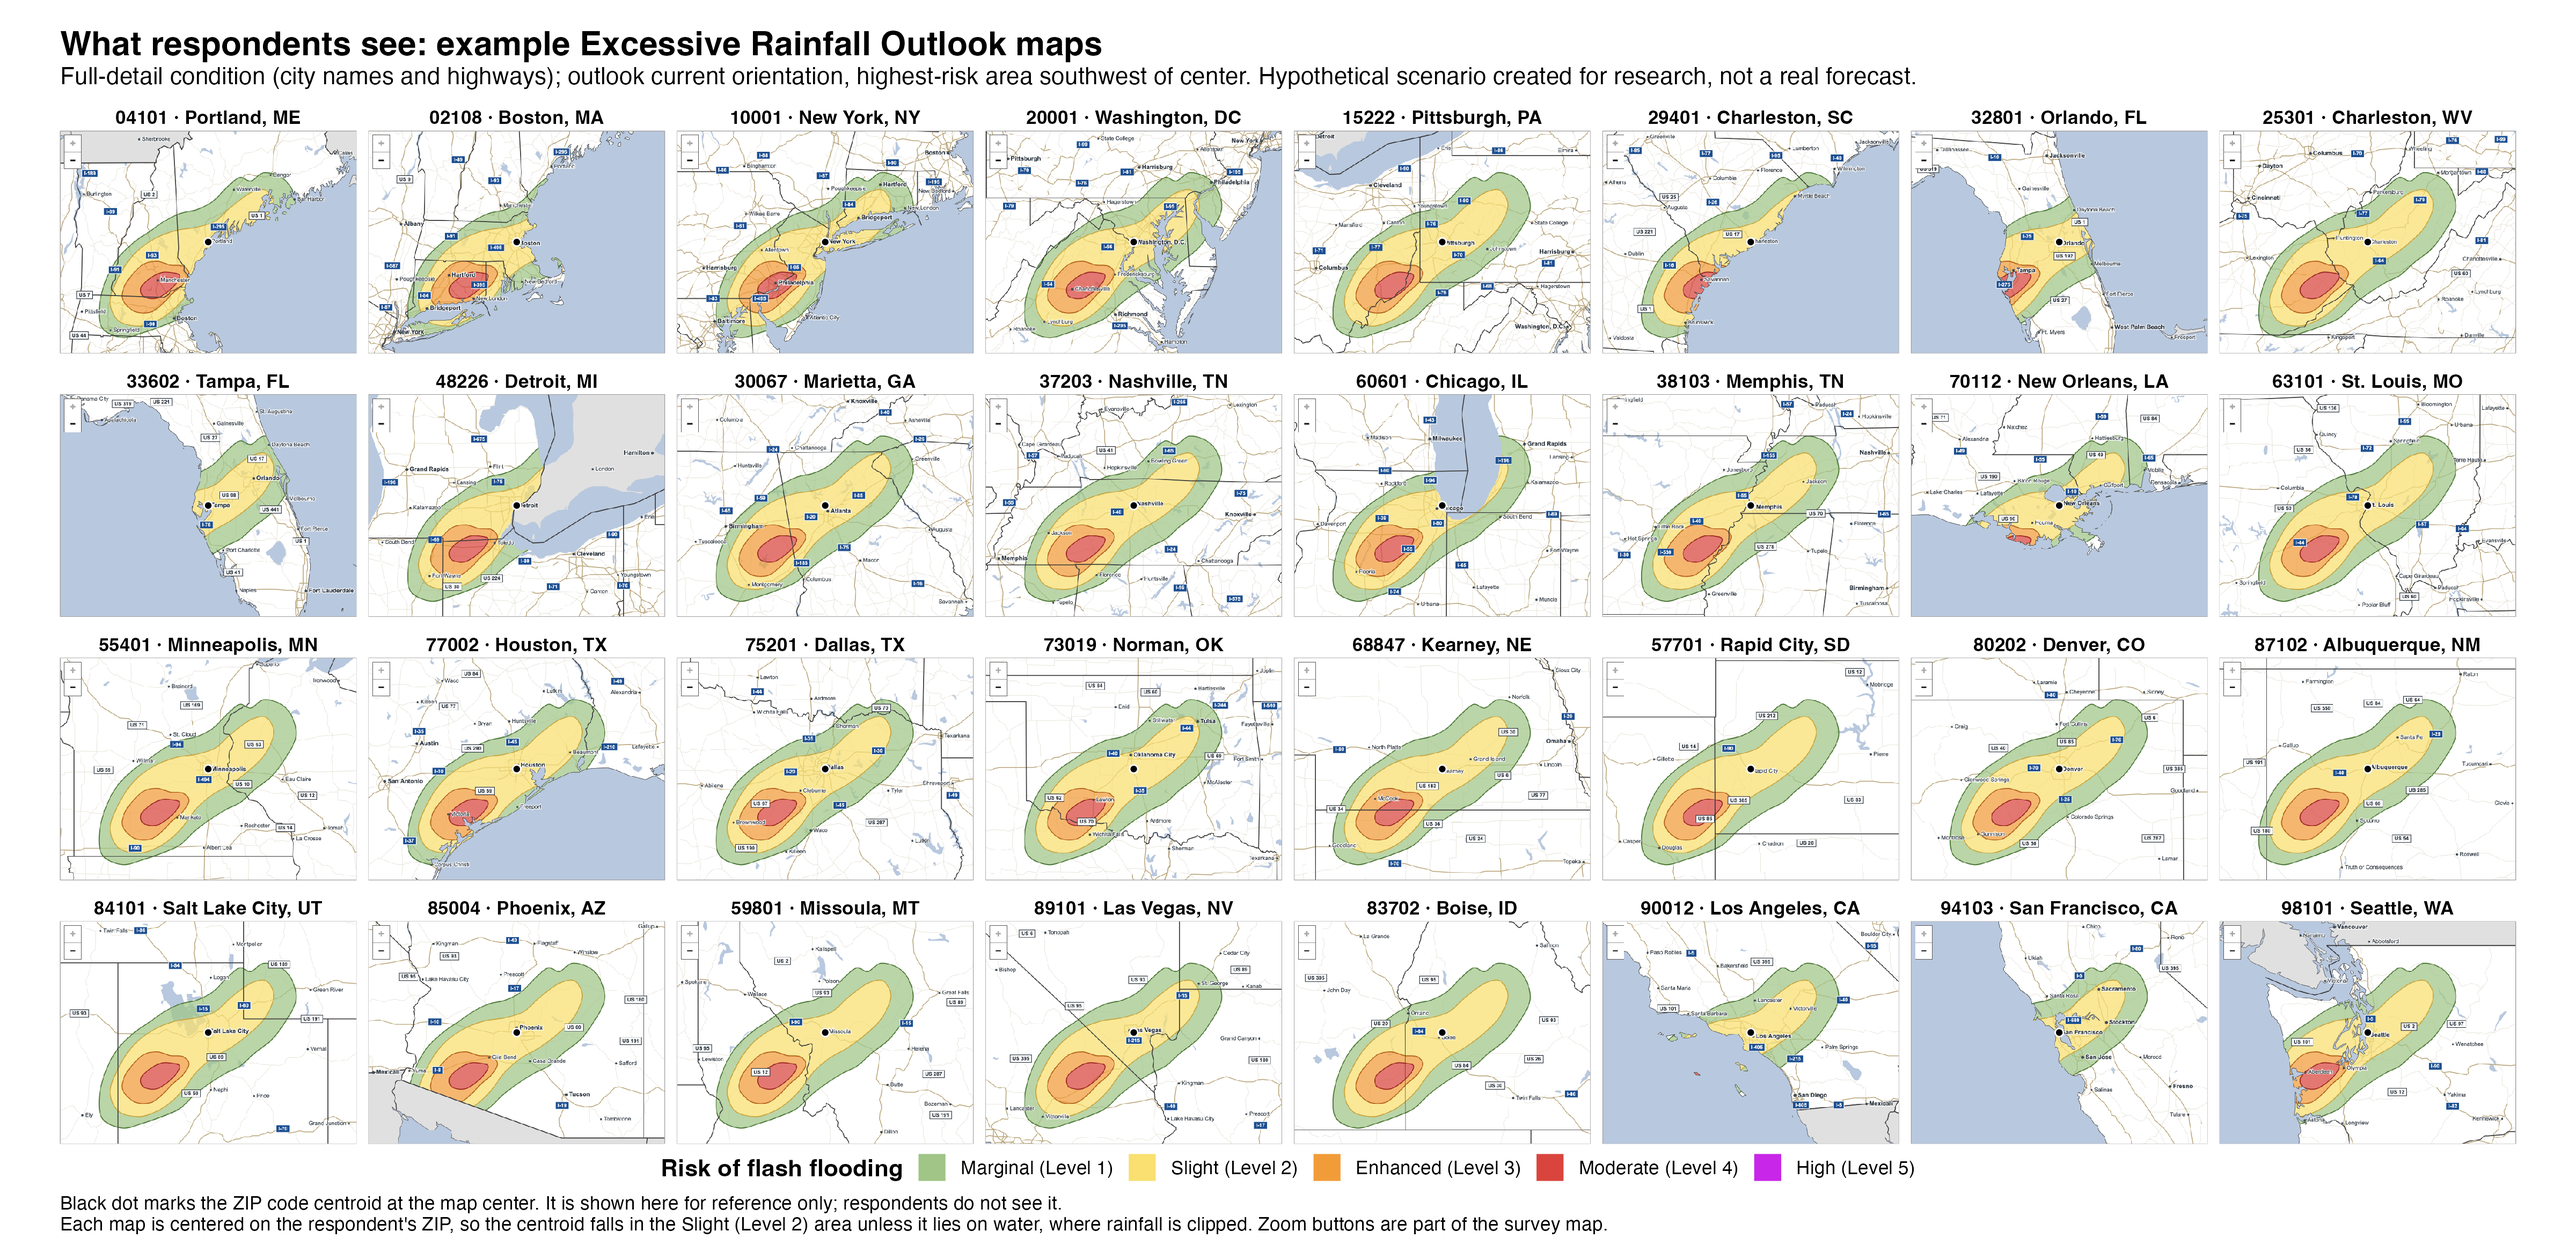
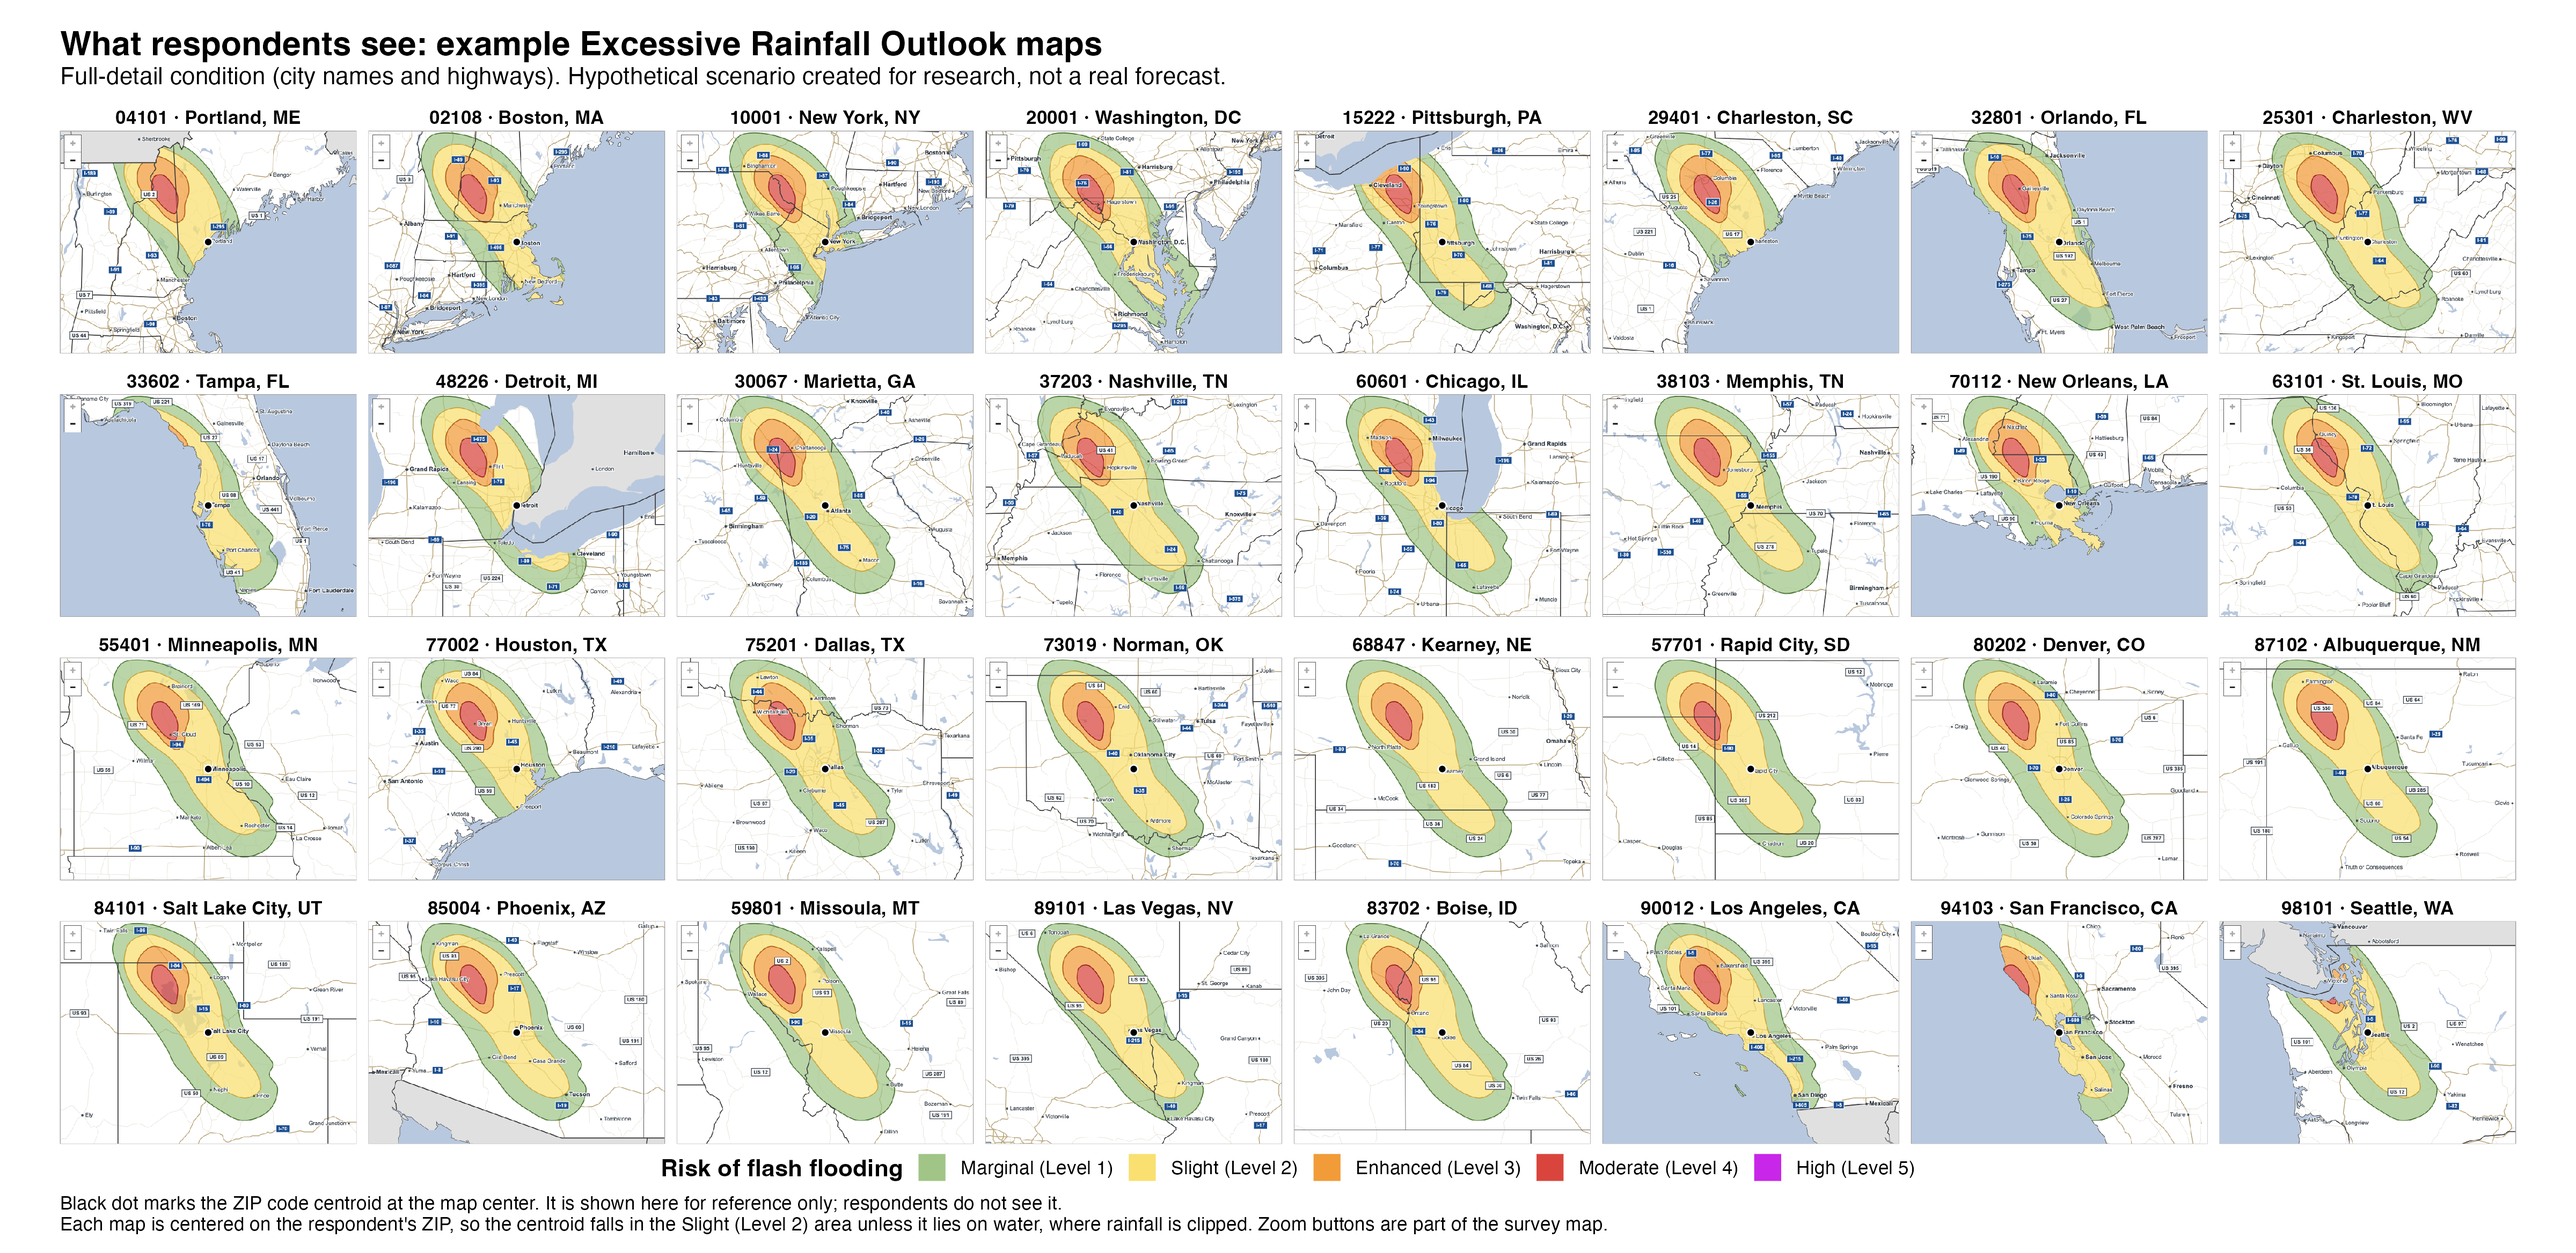
Rotate outlook so the highest risk is northwest of the respondent
Of 16 orientations tested, this one leaves the least of the outlook
cropped by ocean, Great Lakes and borders across the lower-48 population
(3.7% of people see less than half, against 15.6% for the previous
southwest orientation). Removes the rotation preview from the example
figure script, documents the final map design in the setup guide and
README, and deletes the preview figure and the old local test page.

diff --git a/ero-map.js b/ero-map.js
@@ -18,14 +18,18 @@
      Listed outermost first and smoothed into closed curves when drawn.
      Moderate is the highest level drawn; the legend still shows all five.
      Shapes are irregular and off-center so they read as a hand-drawn outlook.
+     The outlook runs northwest-southeast with the highest risk northwest of
+     the respondent. Of 16 rotations and mirrorings tested, this one leaves
+     the least of the outlook cropped by ocean, Great Lakes and borders across
+     the lower-48 population (see 02_orientation_clipping.R).
      Constraints: each level lies inside the one below it, map center is at
      least SAFE_RADIUS inside Slight and outside Enhanced, and every point is
      within 240 px of center so the outlook fits the frame at 0 or 90 deg. */
   var CONTOURS = {
-    marginal: [[-228,188],[-185,207],[-140,196],[-100,182],[-62,165],[-30,135],[0,112],[38,88],[70,72],[100,45],[138,15],[168,-25],[190,-70],[182,-112],[158,-140],[120,-150],[92,-132],[68,-140],[40,-118],[10,-88],[-25,-70],[-60,-62],[-95,-45],[-128,-22],[-160,0],[-198,38],[-225,92],[-236,145]],
-    slight: [[-195,170],[-150,182],[-110,170],[-80,150],[-55,125],[-25,85],[10,55],[50,32],[92,0],[125,-35],[142,-80],[125,-112],[95,-108],[70,-92],[45,-72],[15,-45],[-25,-32],[-70,-25],[-118,-6],[-162,28],[-195,78],[-212,128]],
-    enhanced: [[-185,125],[-160,150],[-125,152],[-100,135],[-78,112],[-55,92],[-42,68],[-55,52],[-82,50],[-110,42],[-140,48],[-168,75],[-183,100]],
-    moderate: [[-140,118],[-112,122],[-88,108],[-68,88],[-62,72],[-75,67],[-100,66],[-125,78],[-145,98]]
+    marginal: [[-188,-228],[-207,-185],[-196,-140],[-182,-100],[-165,-62],[-135,-30],[-112,0],[-88,38],[-72,70],[-45,100],[-15,138],[25,168],[70,190],[112,182],[140,158],[150,120],[132,92],[140,68],[118,40],[88,10],[70,-25],[62,-60],[45,-95],[22,-128],[0,-160],[-38,-198],[-92,-225],[-145,-236]],
+    slight: [[-170,-195],[-182,-150],[-170,-110],[-150,-80],[-125,-55],[-85,-25],[-55,10],[-32,50],[0,92],[35,125],[80,142],[112,125],[108,95],[92,70],[72,45],[45,15],[32,-25],[25,-70],[6,-118],[-28,-162],[-78,-195],[-128,-212]],
+    enhanced: [[-125,-185],[-150,-160],[-152,-125],[-135,-100],[-112,-78],[-92,-55],[-68,-42],[-52,-55],[-50,-82],[-42,-110],[-48,-140],[-75,-168],[-100,-183]],
+    moderate: [[-118,-140],[-122,-112],[-108,-88],[-88,-68],[-72,-62],[-67,-75],[-66,-100],[-78,-125],[-98,-145]]
   };
 
   /* This whole circle lies inside the Slight area and outside every higher level.

diff --git a/ERO_Map_Qualtrics_Setup_Guide.md b/ERO_Map_Qualtrics_Setup_Guide.md
@@ -14,6 +14,17 @@ You need:
 
 The survey has this order: consent, ZIP code, recorded fields, random condition, first map with two questions, second map with up to three questions, debrief.
 
+## The map
+
+Every respondent sees the same outlook graphic, centered on their ZIP code, so their location always falls in the Slight (Level 2) area. Only the basemap underneath changes.
+
+- **Levels.** The legend shows all five levels, but the map draws only up to Moderate (Level 4). High (Level 5) stays an answer option.
+- **Shape.** The outlook runs northwest to southeast, with the highest risk northwest of the respondent. That orientation crops the least of the outlook at coasts and borders across the lower-48 population; `02_orientation_clipping.R` has the comparison.
+- **Clipping.** Rainfall stops at the ocean, the Great Lakes and the national border. Smaller lakes show faintly beneath it.
+- **Zoom.** The map opens at zoom 7 and can zoom out to 6 and 5.
+
+`01_example_maps.png` shows the map for 32 ZIP codes across the country.
+
 ## Part 1: Create the project
 
 1. At [qualtrics.ou.edu](https://qualtrics.ou.edu), click **Create a new project**, then **Survey**, then **Get started**.
@@ -397,6 +408,6 @@ A completed preview can appear as a recorded response, so delete test responses 
 - [ ] Fix the phone legend, where "Enhanced" and "Moderate" run together. At 343 px they were tight but separate; narrower phones or Qualtrics margins may merge them.
 - [ ] Decide how to handle phones. City and route labels render at about 6 px on a phone-width map, so the detail manipulation is weaker there. Options are restricting to desktop, enlarging labels on narrow maps, or analyzing by `ero_map_width_px`.
 - [ ] Review the route labels for your main sample areas.
-- [ ] Decide exclusion rules in advance for coastal and island ZIPs. Honolulu showed 2% of the rainfall area, and San Juan and Miami Beach had the center over water. A cutoff such as `ero_center_visible = yes` and `ero_rain_visible_pct >= 50` belongs in the analysis plan.
+- [ ] Decide exclusion rules in advance for coastal and island ZIPs. In the lower 48, about 4% of people would see less than half the outlook (`02_orientation_summary.csv`). Alaska, Hawaii and Puerto Rico are mostly water at this zoom, so a lower-48 sample avoids the worst cases. A cutoff such as `ero_center_visible = yes` and `ero_rain_visible_pct >= 50` belongs in the analysis plan.
 - [ ] If you use a panel, add ID capture and the end-of-survey redirect. Consider Qualtrics bot detection and duplicate prevention.
 - [ ] Stop changing the GitHub files before data collection, because changes reach respondents right away. If you must change them, update `MAP_VERSION` in Block B at the same time.

diff --git a/README.md b/README.md
@@ -2,4 +2,19 @@
 
 Map code and public data for a survey experiment on Excessive Rainfall Outlook map comprehension. All scenarios are hypothetical research stimuli, not real forecasts.
 
-Map data: Natural Earth (public domain). ZIP boundaries: 2010 Census ZCTAs via OpenDataDE/State-zip-code-GeoJSON. ZIP list and coordinates: seanpianka/zipcodes (MIT), drawing on GeoNames (CC BY 4.0), USPS, and unitedstateszipcodes.org.
+## Files
+
+| File | What it is |
+| --- | --- |
+| `ero-map.js` | The map widget the survey loads. `EROMap.mount(container, options)`; no dependencies. |
+| `basemap.js`, `zips/` | Basemap geometry and the ZIP code lookup, loaded by the widget. |
+| `test.html` | Preview of the map as it appears in the survey. Enter a ZIP code and pick a condition. |
+| `ERO_Map_Qualtrics_Setup_Guide.md` | How to build the survey in Qualtrics, the recorded fields, and the test checklist. |
+| `01_example_maps.R` | Renders `01_example_maps.png`: the map for 32 ZIP codes on one page. |
+| `02_orientation_clipping.R`, `.js` | Measures how much of the outlook coasts and borders crop under 16 orientations, weighted by 2020 population. Writes `02_orientation_summary.csv`. |
+
+The R scripts need R, Google Chrome, and a `CENSUS_API_KEY` in `~/.Renviron` (for `02`). Changes pushed to `ero-map.js`, `basemap.js` or `zips/` reach survey respondents immediately through GitHub Pages.
+
+## Sources
+
+Map data: Natural Earth (public domain). ZIP boundaries: 2010 Census ZCTAs via OpenDataDE/State-zip-code-GeoJSON. ZIP list and coordinates: seanpianka/zipcodes (MIT), drawing on GeoNames (CC BY 4.0), USPS, and unitedstateszipcodes.org. Population weights: 2020 Decennial Census DHC, table P1, by ZCTA.
